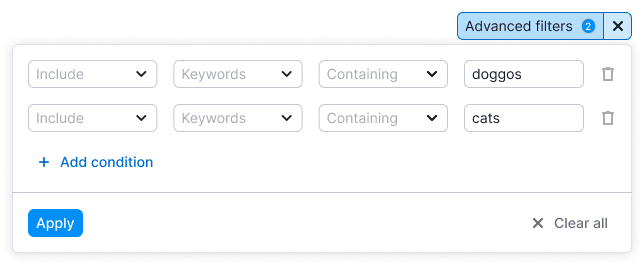
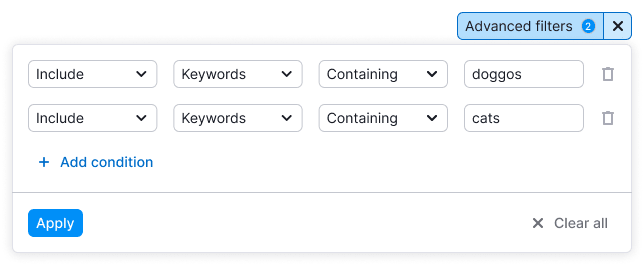
[website] fixed example for advanced filter

diff --git a/website/docs/filter-group/advanced-filters/examples/conditions.jsx b/website/docs/filter-group/advanced-filters/examples/conditions.jsx
@@ -1,22 +1,31 @@
-import React from 'react';
-import Dropdown from '@semcore/ui/dropdown';
-import Select from '@semcore/ui/select';
-import Input from '@semcore/ui/input';
-import MathPlusXS from '@semcore/ui/icon/MathPlus/m';
-import { Flex } from '@semcore/ui/flex-box';
-import { Text } from '@semcore/ui/typography';
-import Divider from '@semcore/ui/divider';
-import Button from '@semcore/ui/button';
-import { FilterTrigger } from '@semcore/ui/base-trigger';
-import CloseXS from '@semcore/ui/icon/Close/m';
-import TrashXS from '@semcore/ui/icon/Trash/m';
-import { ScreenReaderOnly } from '@semcore/utils/lib/ScreenReaderOnly';
+//https://github.com/semrush/intergalactic/tree/master/website/docs/filter-group/advanced-filters/examples/conditions.jsx
+import React from "react";
+import Dropdown from "@semcore/ui/dropdown";
+import Select from "@semcore/ui/select";
+import Input from "@semcore/ui/input";
+import MathPlusM from "@semcore/ui/icon/MathPlus/m";
+import { Flex } from "@semcore/ui/flex-box";
+import { Text } from "@semcore/ui/typography";
+import Divider from "@semcore/ui/divider";
+import Button from "@semcore/ui/button";
+import { FilterTrigger } from "@semcore/ui/base-trigger";
+import CloseM from "@semcore/ui/icon/Close/m";
+import TrashM from "@semcore/ui/icon/Trash/m";
+import { ScreenReaderOnly } from "@semcore/utils/lib/ScreenReaderOnly";
 
-const makeOptions = (options) => options.map((value) => ({ value, children: value }));
+const makeOptions = (options) =>
+  options.map((value) => ({ value, children: value }));
 
 const Filter = ({ closable, onClose, id, name, ...props }) => (
   <Flex {...props} gap={4}>
-    <Flex flexWrap gap={4} tag="fieldset" m={0} p={0} style={{ border: 'none' }}>
+    <Flex
+      flexWrap
+      gap={4}
+      tag="fieldset"
+      m={0}
+      p={0}
+      style={{ border: "none" }}
+    >
       <ScreenReaderOnly>
         <Text tag="legend" size="200" mb={2}>
           {name}
@@ -28,7 +37,11 @@ const Filter = ({ closable, onClose, id, name, ...props }) => (
             Strategy
           </Text>
         </ScreenReaderOnly>
-        <Select options={makeOptions(['Include', 'Exclude'])} id={`${id}-strategy`} />
+        <Select
+          options={makeOptions(["Include", "Exclude"])}
+          id={`${id}-strategy`}
+          defaultValue={"Include"}
+        />
       </Flex>
       <Flex direction="column" wMin={120} gap={2}>
         <ScreenReaderOnly>
@@ -36,7 +49,11 @@ const Filter = ({ closable, onClose, id, name, ...props }) => (
             Entity
           </Text>
         </ScreenReaderOnly>
-        <Select options={makeOptions(['Keyword', 'Backlink'])} id={`${id}-enity`} />
+        <Select
+          options={makeOptions(["Keyword", "Backlink"])}
+          id={`${id}-enity`}
+          defaultValue={"Keyword"}
+        />
       </Flex>
       <Flex direction="column" wMin={120} gap={2}>
         <ScreenReaderOnly>
@@ -44,21 +61,31 @@ const Filter = ({ closable, onClose, id, name, ...props }) => (
             Filter
           </Text>
         </ScreenReaderOnly>
-        <Select options={makeOptions(['Containing', 'Not containing'])} id={`${id}-filter`} />
+        <Select
+          options={makeOptions(["Containing", "Not containing"])}
+          id={`${id}-filter`}
+          defaultValue={"Containing"}
+        />
       </Flex>
       <Flex direction="column" wMin={120} gap={2}>
         <ScreenReaderOnly>
           <Text tag="label" htmlFor={`${id}-value`} size="200">
-            Value
+            Enter value
           </Text>
         </ScreenReaderOnly>
         <Input w={120}>
-          <Input.Value id={`${id}-label`} />
+          <Input.Value id={`${id}-label`} placeholder="Enter value" />
         </Input>
       </Flex>
     </Flex>
     {closable ? (
-      <TrashXS my={2} color="stone" interactive aria-label={`Remove ${name}`} onClick={onClose} />
+      <TrashM
+        my={2}
+        color="stone"
+        interactive
+        aria-label={`Remove ${name}`}
+        onClick={onClose}
+      />
     ) : null}
   </Flex>
 );
@@ -71,8 +98,8 @@ export default () => {
   React.useEffect(() => {
     if (!buttonRef.current) return;
     buttonRef.current.scrollIntoView({
-      behavior: 'smooth',
-      block: 'nearest',
+      behavior: "smooth",
+      block: "nearest"
     });
   }, [filtersCount]);
 
@@ -84,7 +111,7 @@ export default () => {
   return (
     <Flex direction="column" gap={2}>
       <Text tag="label" htmlFor="advanced-filter" size="200">
-        Super advanced filter
+        Advanced filter label
       </Text>
       <Dropdown visible={visible} onVisibleChange={setVisible}>
         <Dropdown.Trigger
@@ -120,7 +147,7 @@ export default () => {
             <div>
               <Button use="tertiary" onClick={addFilter} ref={buttonRef} mx={4}>
                 <Button.Addon>
-                  <MathPlusXS />
+                  <MathPlusM />
                 </Button.Addon>
                 <Button.Text>Add condition</Button.Text>
               </Button>
@@ -132,7 +159,7 @@ export default () => {
               </Button>
               <Button use="tertiary" theme="muted" onClick={clearAll}>
                 <Button.Addon>
-                  <CloseXS />
+                  <CloseM />
                 </Button.Addon>
                 <Button.Text>Clear all</Button.Text>
               </Button>
